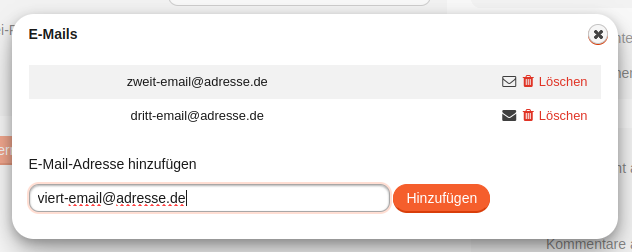
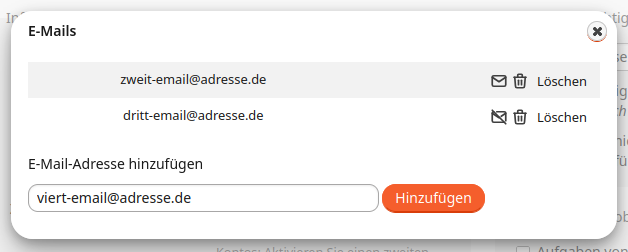
Improves user pages
- replaces outdated screenshots
- creates chapters for every button on the my account page
- adds webhook chapter

diff --git a/CHANGELOG.md b/CHANGELOG.md
@@ -10,6 +10,7 @@ and this project adheres to [Semantic Versioning](https://semver.org/spec/v2.0.0
 ### Added
 
 * progress bar field format
+* custom field 'link values to URL' attribute explanation
 
 ### Changed
 
@@ -24,10 +25,6 @@ and this project adheres to [Semantic Versioning](https://semver.org/spec/v2.0.0
 ### Removed
 
 * requirement of an object class when importing objects
-
-### Added
-
-* custom field 'link values to URL' attribute explanation
 
 ## 1.8.0 - 2026-03-30
 
